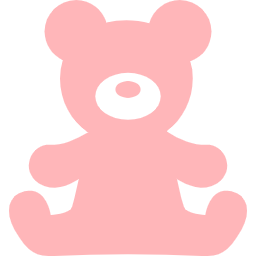
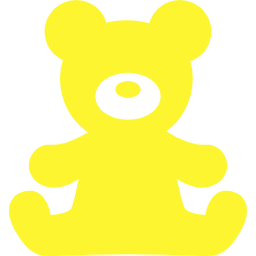
くま差し替え

diff --git a/2020/0325/uuu/style.css b/2020/0325/uuu/style.css
@@ -234,8 +234,9 @@ a-scene {
   display: inline-block;
   height: 80px;
   position: fixed;
-  top: -80px;
+  top: -20vh;
   z-index: 1;
+  mix-blend-mode: luminosity;
 }
 
 @keyframes kumaFul {
@@ -243,7 +244,7 @@ a-scene {
     transform: translateY(0) rotateZ(0);
   }
   100% {
-    transform: translateY(calc(100vh + 80px)) rotateZ(360deg);
+    transform: translateY(calc(100vh + 20vh)) rotateZ(360deg);
   }
 }
 
@@ -279,8 +280,8 @@ a-scene {
 }
 
 .modal-run__txt-small {
-  font-size: 0.3rem;
-  line-height: 0.85rem;
+  font-size: 0.5rem;
+  /* line-height: 0.85rem; */
 }
 
 .sumaho-bg {
@@ -312,8 +313,9 @@ a-scene {
 .pen-input {
   padding: 10px 15px;
   /* font-size: 16px; */
-  border-radius: 3px;
-  border: 2px solid #ddd;
+  width: 90%;
+  border-radius: 5px;
+  border: 1px solid #ddd;
   box-sizing: border-box;
   margin-bottom: 10px;
 }
